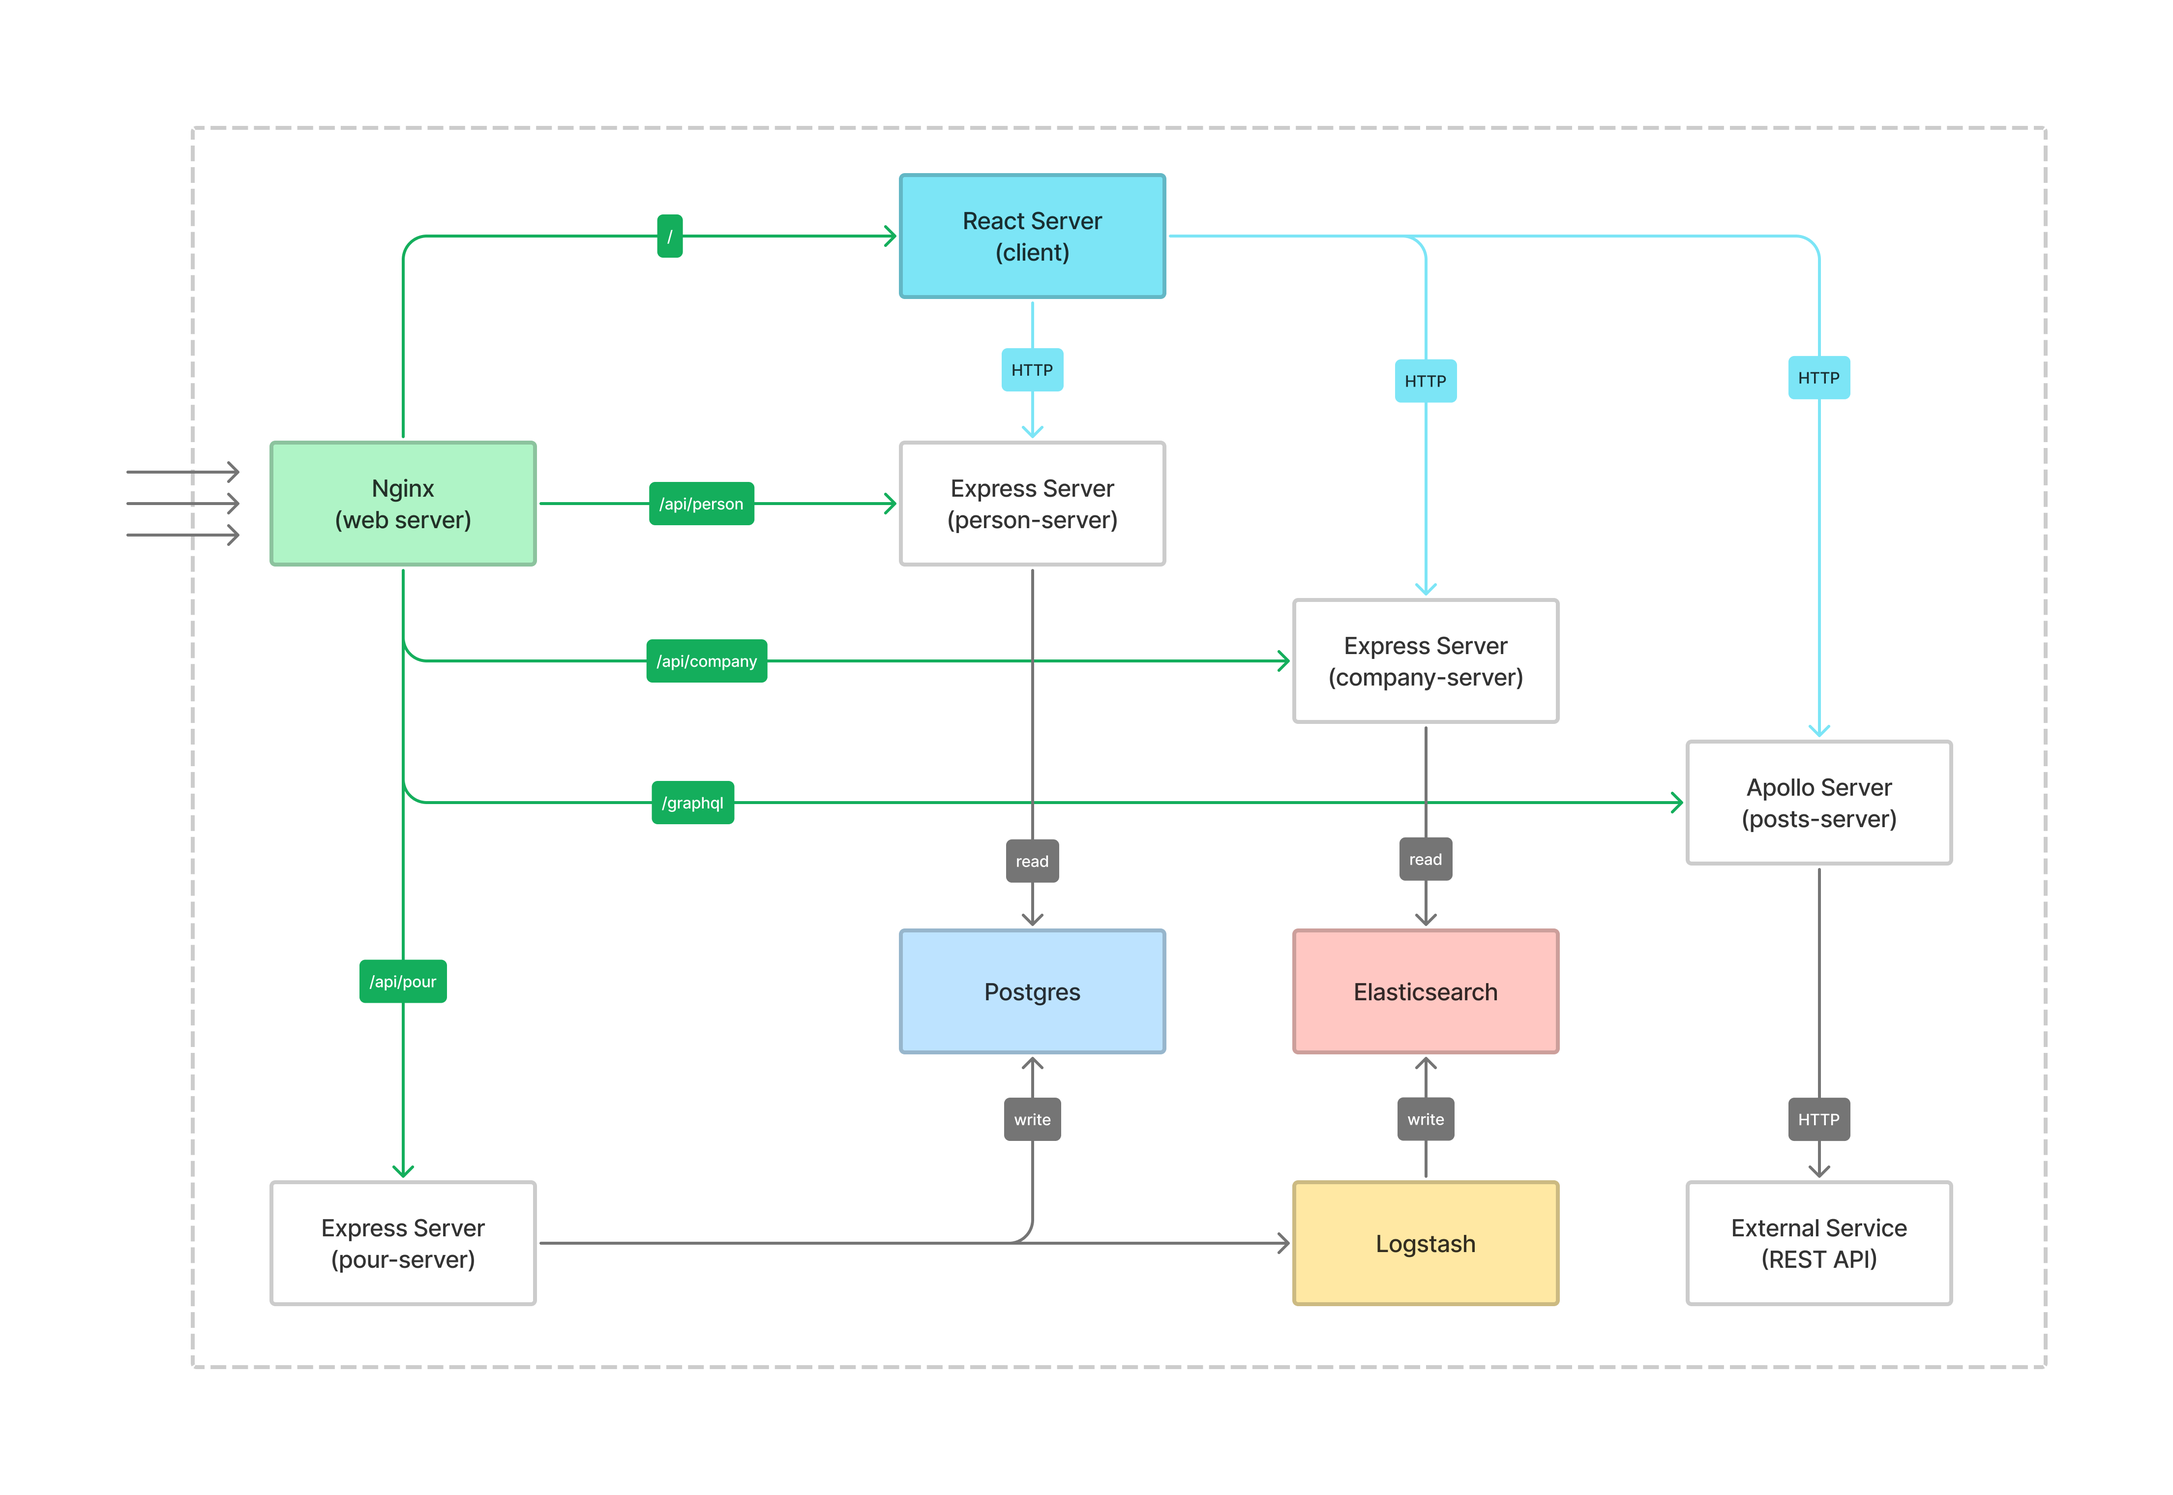
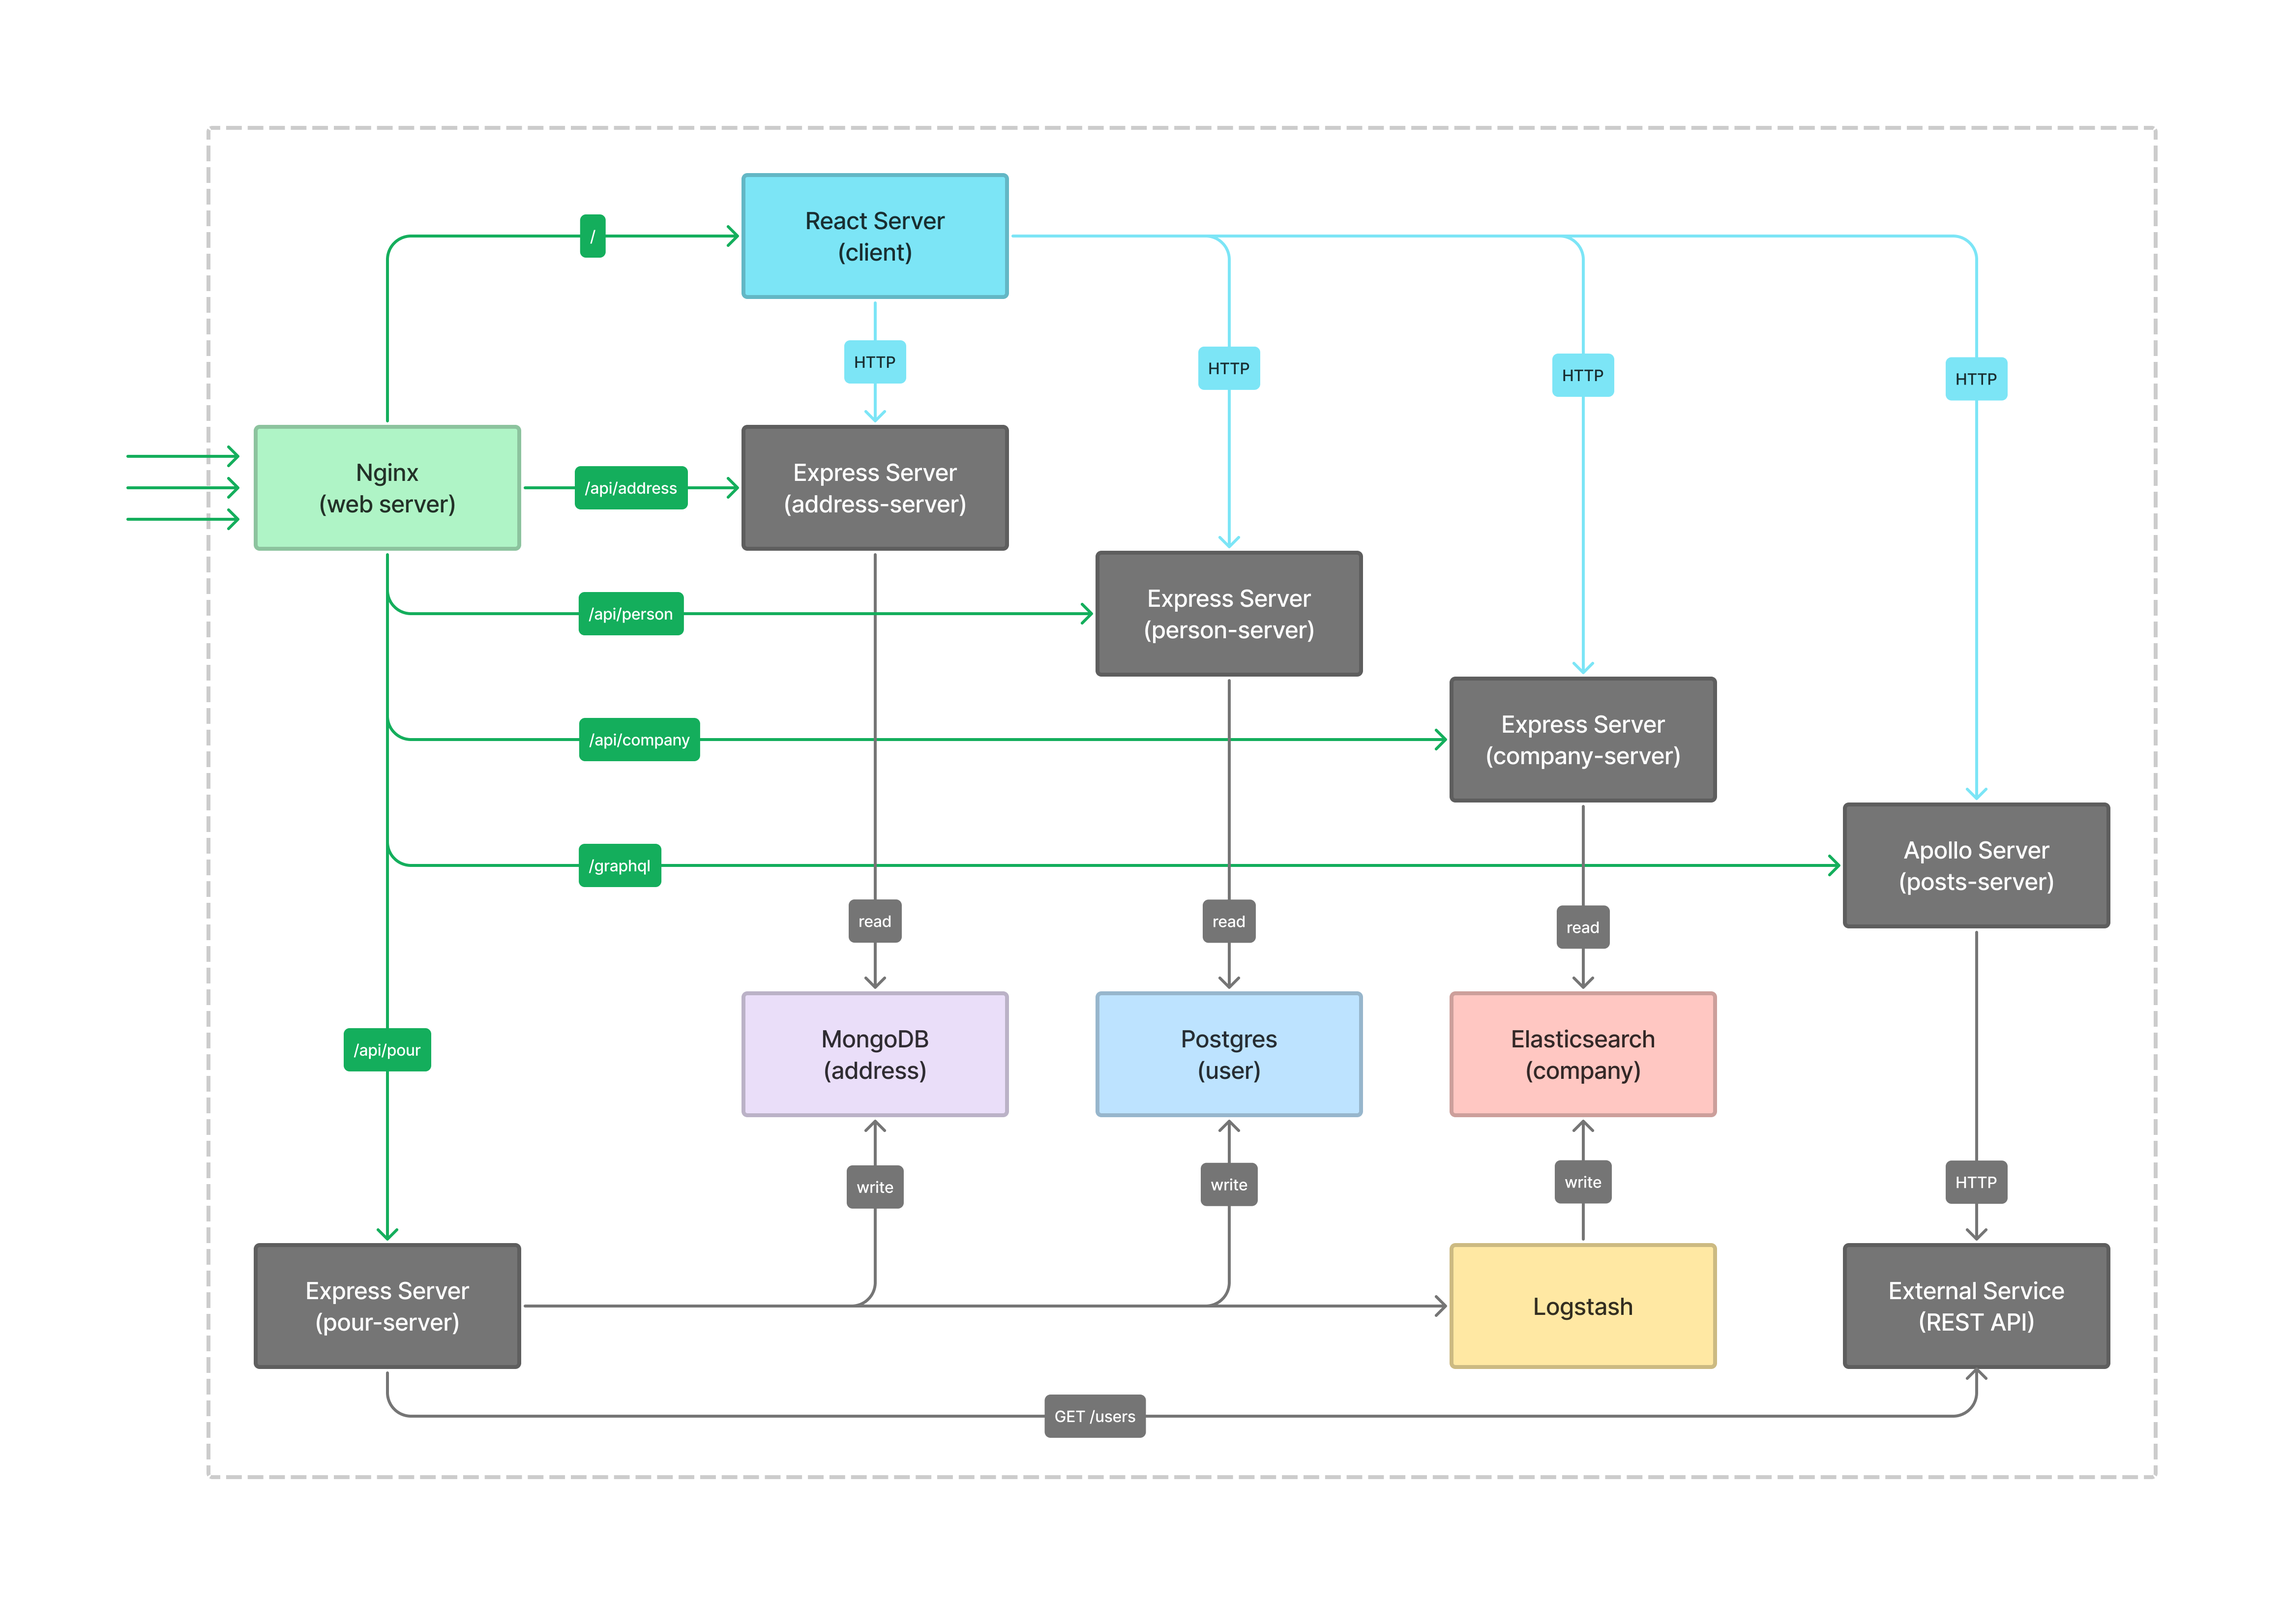
add data from external api to database and update architecture

diff --git a/pour-server/src/services/database.service.js b/pour-server/src/services/database.service.js
@@ -31,14 +31,14 @@ class DatabaseService {
     });
   }
 
-  async insert({userId, name, username, email, phone, website}) {
+  async insert({id, name, username, email, phone, website}) {
     try {
       await this.pgClient.query(
         "INSERT INTO person(userId, name, username, email, phone, website) " +
         "VALUES($1, $2, $3, $4, $5, $6) ON CONFLICT DO NOTHING",
-        [userId, name, username, email, phone, website]);
+        [id, name, username, email, phone, website]);
     } catch (err) {
-      logger.info(`Failed to insert ${userId}, ${name}`, err);
+      logger.info(`Failed to insert ${id}, ${name}`, err);
       throw err
     }
   }

diff --git a/pour-server/src/index.js b/pour-server/src/index.js
@@ -46,6 +46,23 @@ app.post('/pour/person', validate({body: personSchema}), async (req, res, next) 
   next();
 });
 
+app.get('/pour/auto', async (req, res, next) => {
+  const users = await usersService.getUsers();
+
+  try {
+    await users.forEach((user) => {
+      databaseService.insert(user);
+    });
+  } catch (err) {
+    res.send(500);
+  }
+
+  res.json({
+    status: "inserted",
+    users
+  });
+});
+
 app.use(validationErrorMiddleware);
 
 app.listen(PORT, err => {

diff --git a/README.md b/README.md
@@ -4,13 +4,14 @@ Multi container application consisting of mulitple microservices and
 data sources. 
 
 **Technologies**: Docker, Kubernetes, Helm, Nginx, React, Nodejs, Express, Graphql, Postgres,
-Elasticsearch, Logstash, Kibana, and Google Cloud,
+MongoDB, Elasticsearch, Logstash, Kibana, and Google Cloud,
 
 * [Overview](#overview)
 * [Components](#components)
   * [person-server](#person-server)
   * [company-server](#company-server)
   * [posts-server](#posts-server)
+  * [address-server](#address-server)
   * [pour-server](#pour-server)
   * [Elasticsearch](#elasticsearch)
 * [Kubernetes](#kubernetes)
@@ -32,6 +33,8 @@ Elasticsearch, Logstash, Kibana, and Google Cloud,
 #### posts-server
 
 #### pour-server
+
+#### address-server
 
 #### Elasticsearch
 Elasticsearch is used to store, search, and manage data for the company-server (express server).
